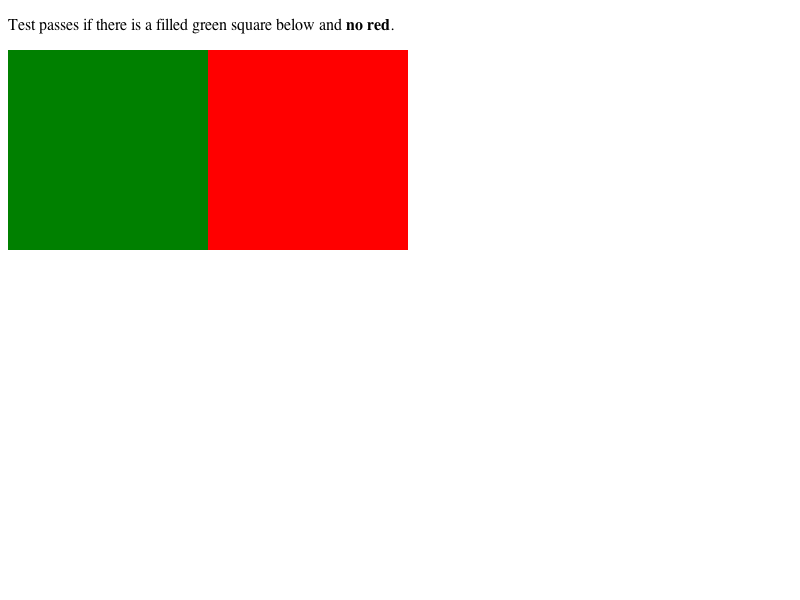
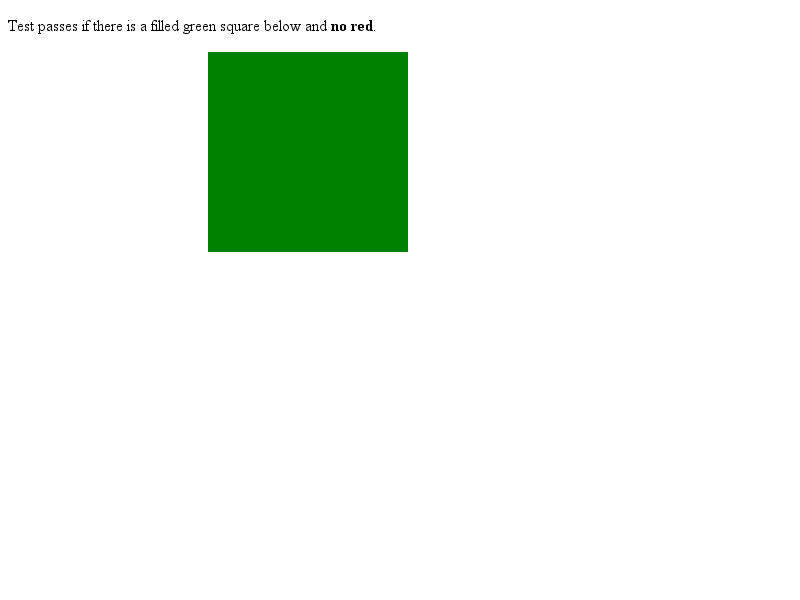
CSS 2.1 failure: block-non-replaced-width-008.htm https://bugs.webkit.org/show_bug.cgi?id=69278
Reviewed by Simon Fraser.

Source/WebCore:

* rendering/RenderBox.cpp:
(WebCore::RenderBox::computeLogicalWidthUsing):
  Include the margins in the calculation of logical width even when the containing block's
  width is zero. This is required by section '10.3.3 Block-level, non-replaced elements in
  normal flow' in the CSS 2.1 spec. Tested by block-non-replaced-width-008.htm in the CSS
  test suite.

LayoutTests:

* platform/chromium-win/fast/replaced/width100percent-searchfield-expected.txt:
  The pixel result is preserved, but the width of the containing block in the render
  tree now accurately reflects the rendered size of the cells.
* platform/chromium/test_expectations.txt:
* platform/mac/css2.1/20110323/block-non-replaced-width-008-expected.png:
* platform/mac/css2.1/20110323/block-non-replaced-width-008-expected.txt:

Identifier: 87426@main
git-svn-id: https://svn.webkit.org/repository/webkit/trunk@98812 268f45cc-cd09-0410-ab3c-d52691b4dbfc

Changed region(s): [[0.0, 0.03, 0.5312, 0.42]]

diff --git a/Source/WebCore/rendering/RenderBox.cpp b/Source/WebCore/rendering/RenderBox.cpp
@@ -1768,8 +1768,7 @@ LayoutUnit RenderBox::computeLogicalWidthUsing(LogicalWidthType widthType, Layou
     if (logicalWidth.isIntrinsicOrAuto()) {
         LayoutUnit marginStart = style()->marginStart().calcMinValue(availableLogicalWidth);
         LayoutUnit marginEnd = style()->marginEnd().calcMinValue(availableLogicalWidth);
-        if (availableLogicalWidth)
-            logicalWidthResult = availableLogicalWidth - marginStart - marginEnd;
+        logicalWidthResult = availableLogicalWidth - marginStart - marginEnd;
 
         if (sizesToIntrinsicLogicalWidth(widthType)) {
             logicalWidthResult = max(logicalWidthResult, minPreferredLogicalWidth());
